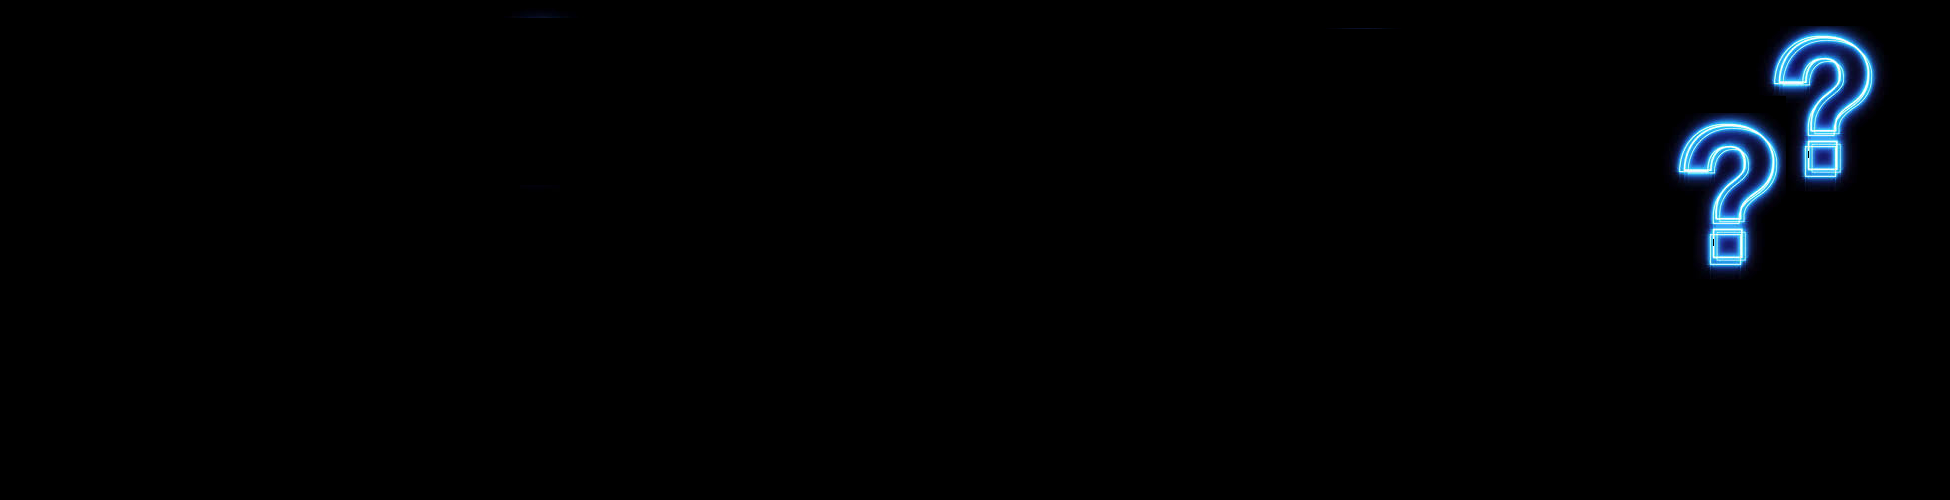
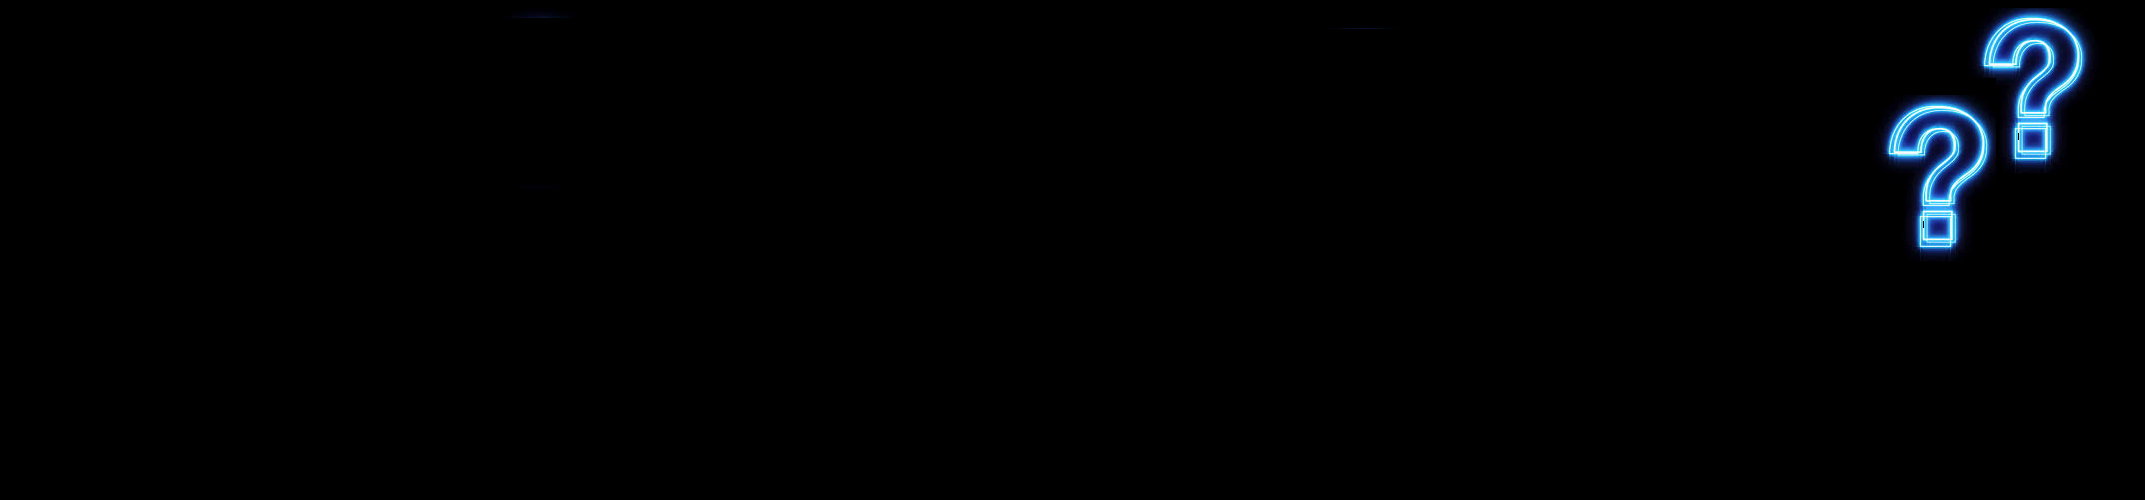
Third commits

Changed region(s): [[0.8308, 0.0, 0.9846, 0.57]]

diff --git a/stylesheet.css b/stylesheet.css
@@ -46,6 +46,7 @@ table, th, td {
 }
 
 .fMRI {
+	background-color: black;
 	background-image: url("glowingbrain.png");
 	background-repeat: repeat-x;
 	background-size: auto 100%;
@@ -55,11 +56,12 @@ table, th, td {
 }
 
 .questions {
-	background-image: url("questions2.jpg");
+	background-image: url("questions.png");
 	background-repeat: repeat-x;
 	background-size: auto 100%;
 	overflow: hidden;
     padding: 0px;
+    color: white;
 }
 
 .fMRIsub {
